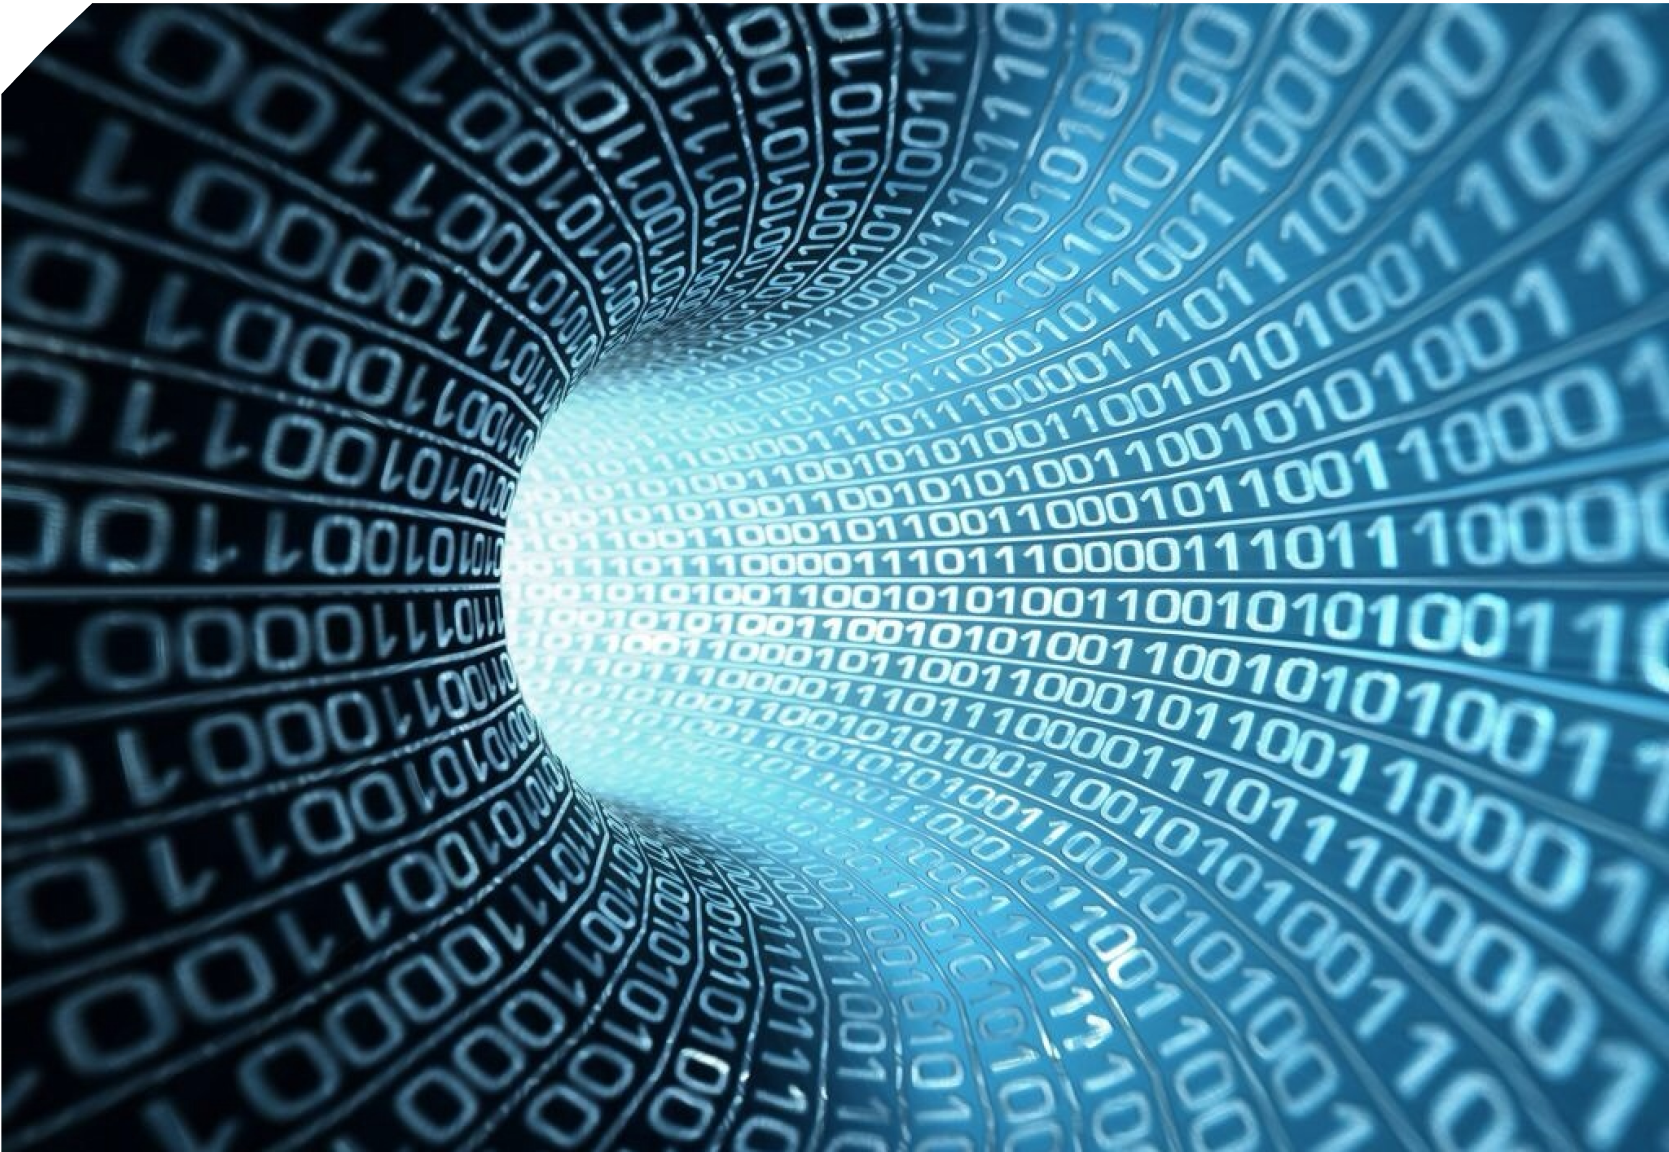
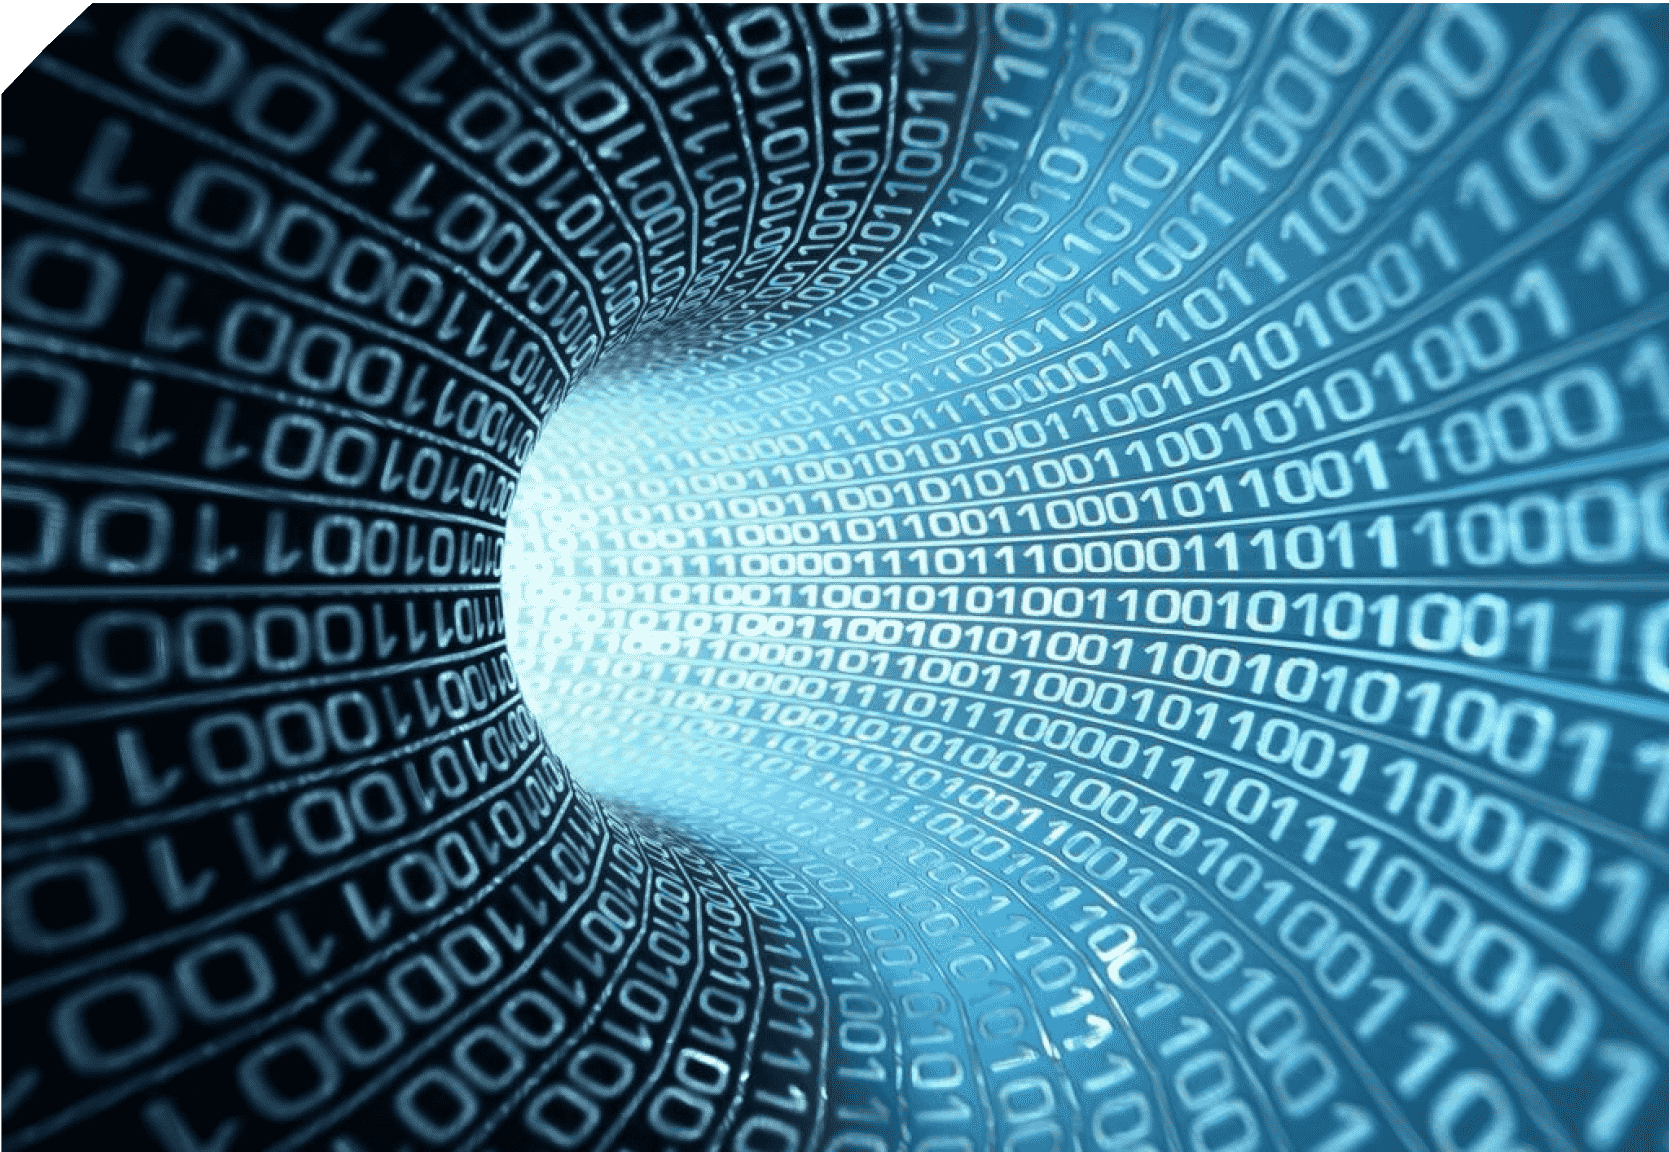
refactor: Improve  app perfromance and update README.md - Reduce image sizes to enhance UX and app performance
- Update README.md with project information

diff --git a/src/containers/header/header.css b/src/containers/header/header.css
@@ -90,6 +90,7 @@
 .gpt3__header-image img {
   width: 100%;
   height: 100%;
+  border-radius:  50%;
 }
 
 @media screen and (max-width: 1050px) {

diff --git a/src/components/brand/brand.css b/src/components/brand/brand.css
@@ -4,6 +4,7 @@
   justify-content: center;
   align-items: center;
 }
+
 .gpt3__brand div {
   flex: 1;
   display: flex;

diff --git a/README.md b/README.md
@@ -1,1 +1,65 @@
-# Gpt-3 Home Page created with React and it's fully responsive
+
+# GPT-3 Product Introduction Mockup
+
+This project is a mockup of an introduction page for a product, specifically designed to showcase GPT-3.
+It is built using React and demonstrates skills in design with gradient colors for an appealing look and fully responsive design.
+
+## Table of Contents
+
+- [Features](#features)
+- [Technologies Used](#technologies-used)
+- [Installation](#installation)
+- [Usage](#usage)
+- [Screenshots](#screenshots)
+- [Contributing](#contributing)
+- [License](#license)
+- [Contact](#contact)
+
+## Features
+
+- **Responsive Design**: Optimized for all devices, including mobile, tablet, and desktop.
+- **Gradient Colors**: Modern and visually appealing gradient backgrounds.
+- **Mockup Functionality**: Designed to demonstrate front-end skills without backend functionality.
+- **Subscription Section**: Includes a subscription form mockup to capture user interest.
+
+## Technologies Used
+
+- **React**: A JavaScript library for building user interfaces.
+- **CSS3**: For styling and responsive design.
+- **HTML5**: For structuring the web page.
+- **JavaScript (ES6)**: For scripting and interactivity.
+
+## Additional Information
+- **Naming Convention**: This project uses the BEM (Block Element Modifier) convention for CSS class naming to maintain a scalable and modular code structure.
+
+## Installation
+
+1. Clone the repository:
+    ```sh
+    git clone https://github.com/HAWKZ4/Modern_UI_UX_Desgn_GPT3
+    ```
+2. Navigate to the project directory:
+    ```sh
+    cd Modern_UI_UX_Desgn_GPT3
+    ```
+3. Install the dependencies:
+    ```sh
+    npm install
+    ```
+
+## Usage
+
+1. Start the development server:
+    ```sh
+    npm start
+    ```
+2. Open your browser and go to `http://localhost:3000` to view the project.
+
+## Contributing
+Contributions are welcome! Please fork this repository and submit a pull request if you have any improvements.
+
+## License This project is licensed under the MIT License.
+
+
+### Credits This project was inspired by a tutorial from [javascriptmastery](https://www.youtube.com/@javascriptmastery). 
+Special thanks to the original author for providing the foundational design.
